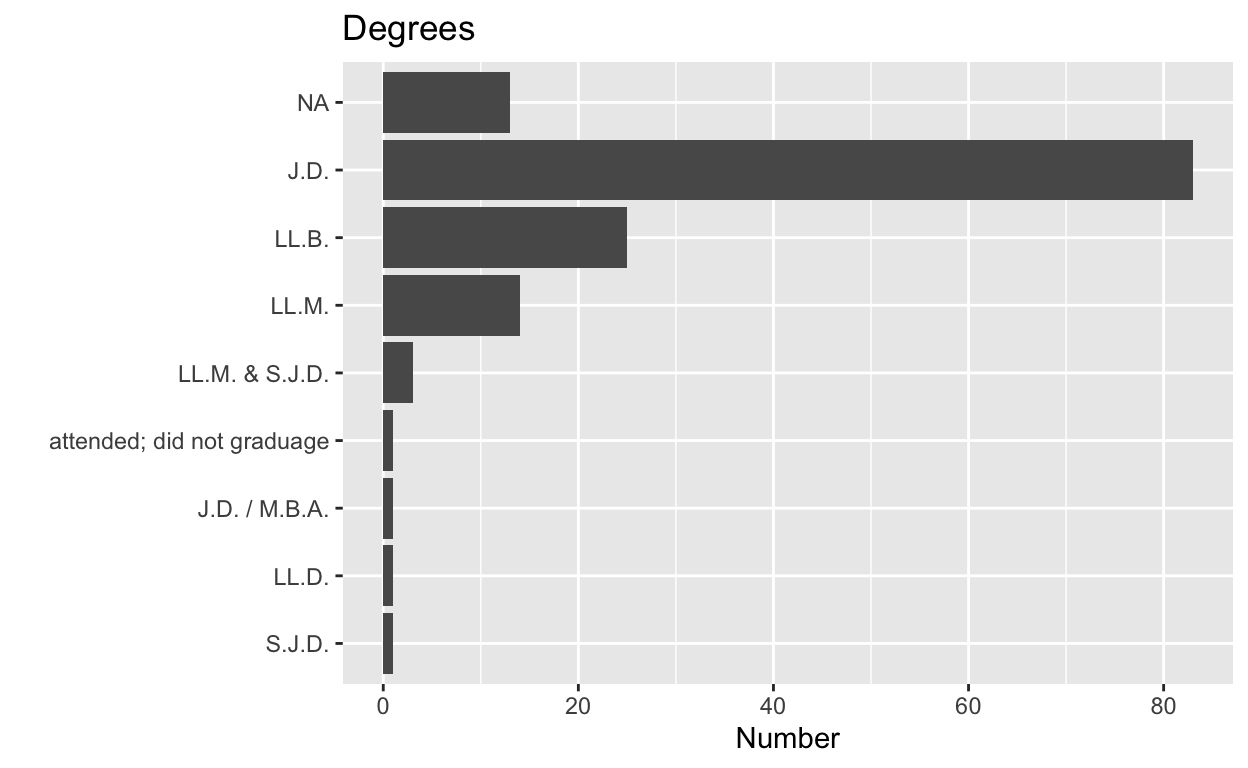
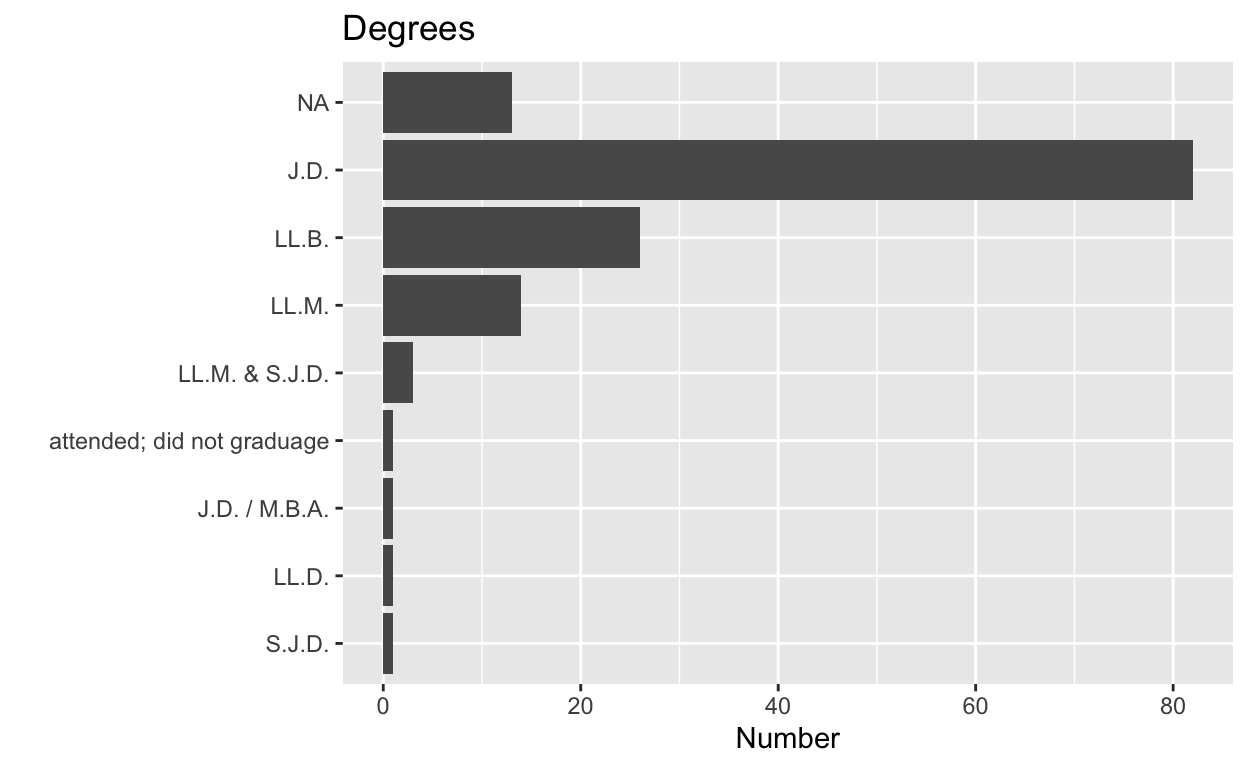
small change; on wikipedia ferencz is llb. There is stilla JD from the 40s according to the CBA Judges

diff --git a/docs/index.html b/docs/index.html
@@ -2108,13 +2108,13 @@ code span.wa { color: #5e5e5e; font-style: italic; } /* Warning */
 <p><img src="index_files/figure-html5/unnamed-chunk-6-1.png" width="624" /></p>
 </div>
 <h1 id="countries">Countries</h1>
-<p>In the Airtable, multiple countries may be listed for one entry. These include places where people are involved or born, from what I gathered from a quick reading of one source, usually Wikipedia. These countries are generally in order of precedence. The first, and so primary, country is used for each entry here.</p>
+<p>In the Airtable, multiple countries may be listed for one entry. These include places where people are involved or born, from what I gathered from a quick reading of one source, usually Wikipedia. These countries are generally in order of precedence. The first, and so primary, country for each entry is used here.</p>
 <p>As expected, the vast majority of entries are based in the U.S. Asian countries make up the the majority of foreign locations.</p>
 <div class="layout-chunk" data-layout="l-body">
 <p><img src="index_files/figure-html5/unnamed-chunk-7-1.png" width="624" /></p>
 </div>
 <h1 id="parties">Parties</h1>
-<p>40 entries have at least one parties. If a person has more than one party, each is counted here. For the most part, I listed parties for those who had one displayed on Wikipedia, i.e. primarily elected officials.</p>
+<p>40 entries have at least one party. If a person has more than one party, each is counted here. For the most part, I listed parties for those who had one displayed on Wikipedia, i.e. primarily elected officials.</p>
 <p>Democrats are the most represented party. Several of the parties listed below are for foreign countries.</p>
 <div class="layout-chunk" data-layout="l-body">
 <p><img src="index_files/figure-html5/unnamed-chunk-8-1.png" width="624" /></p>
